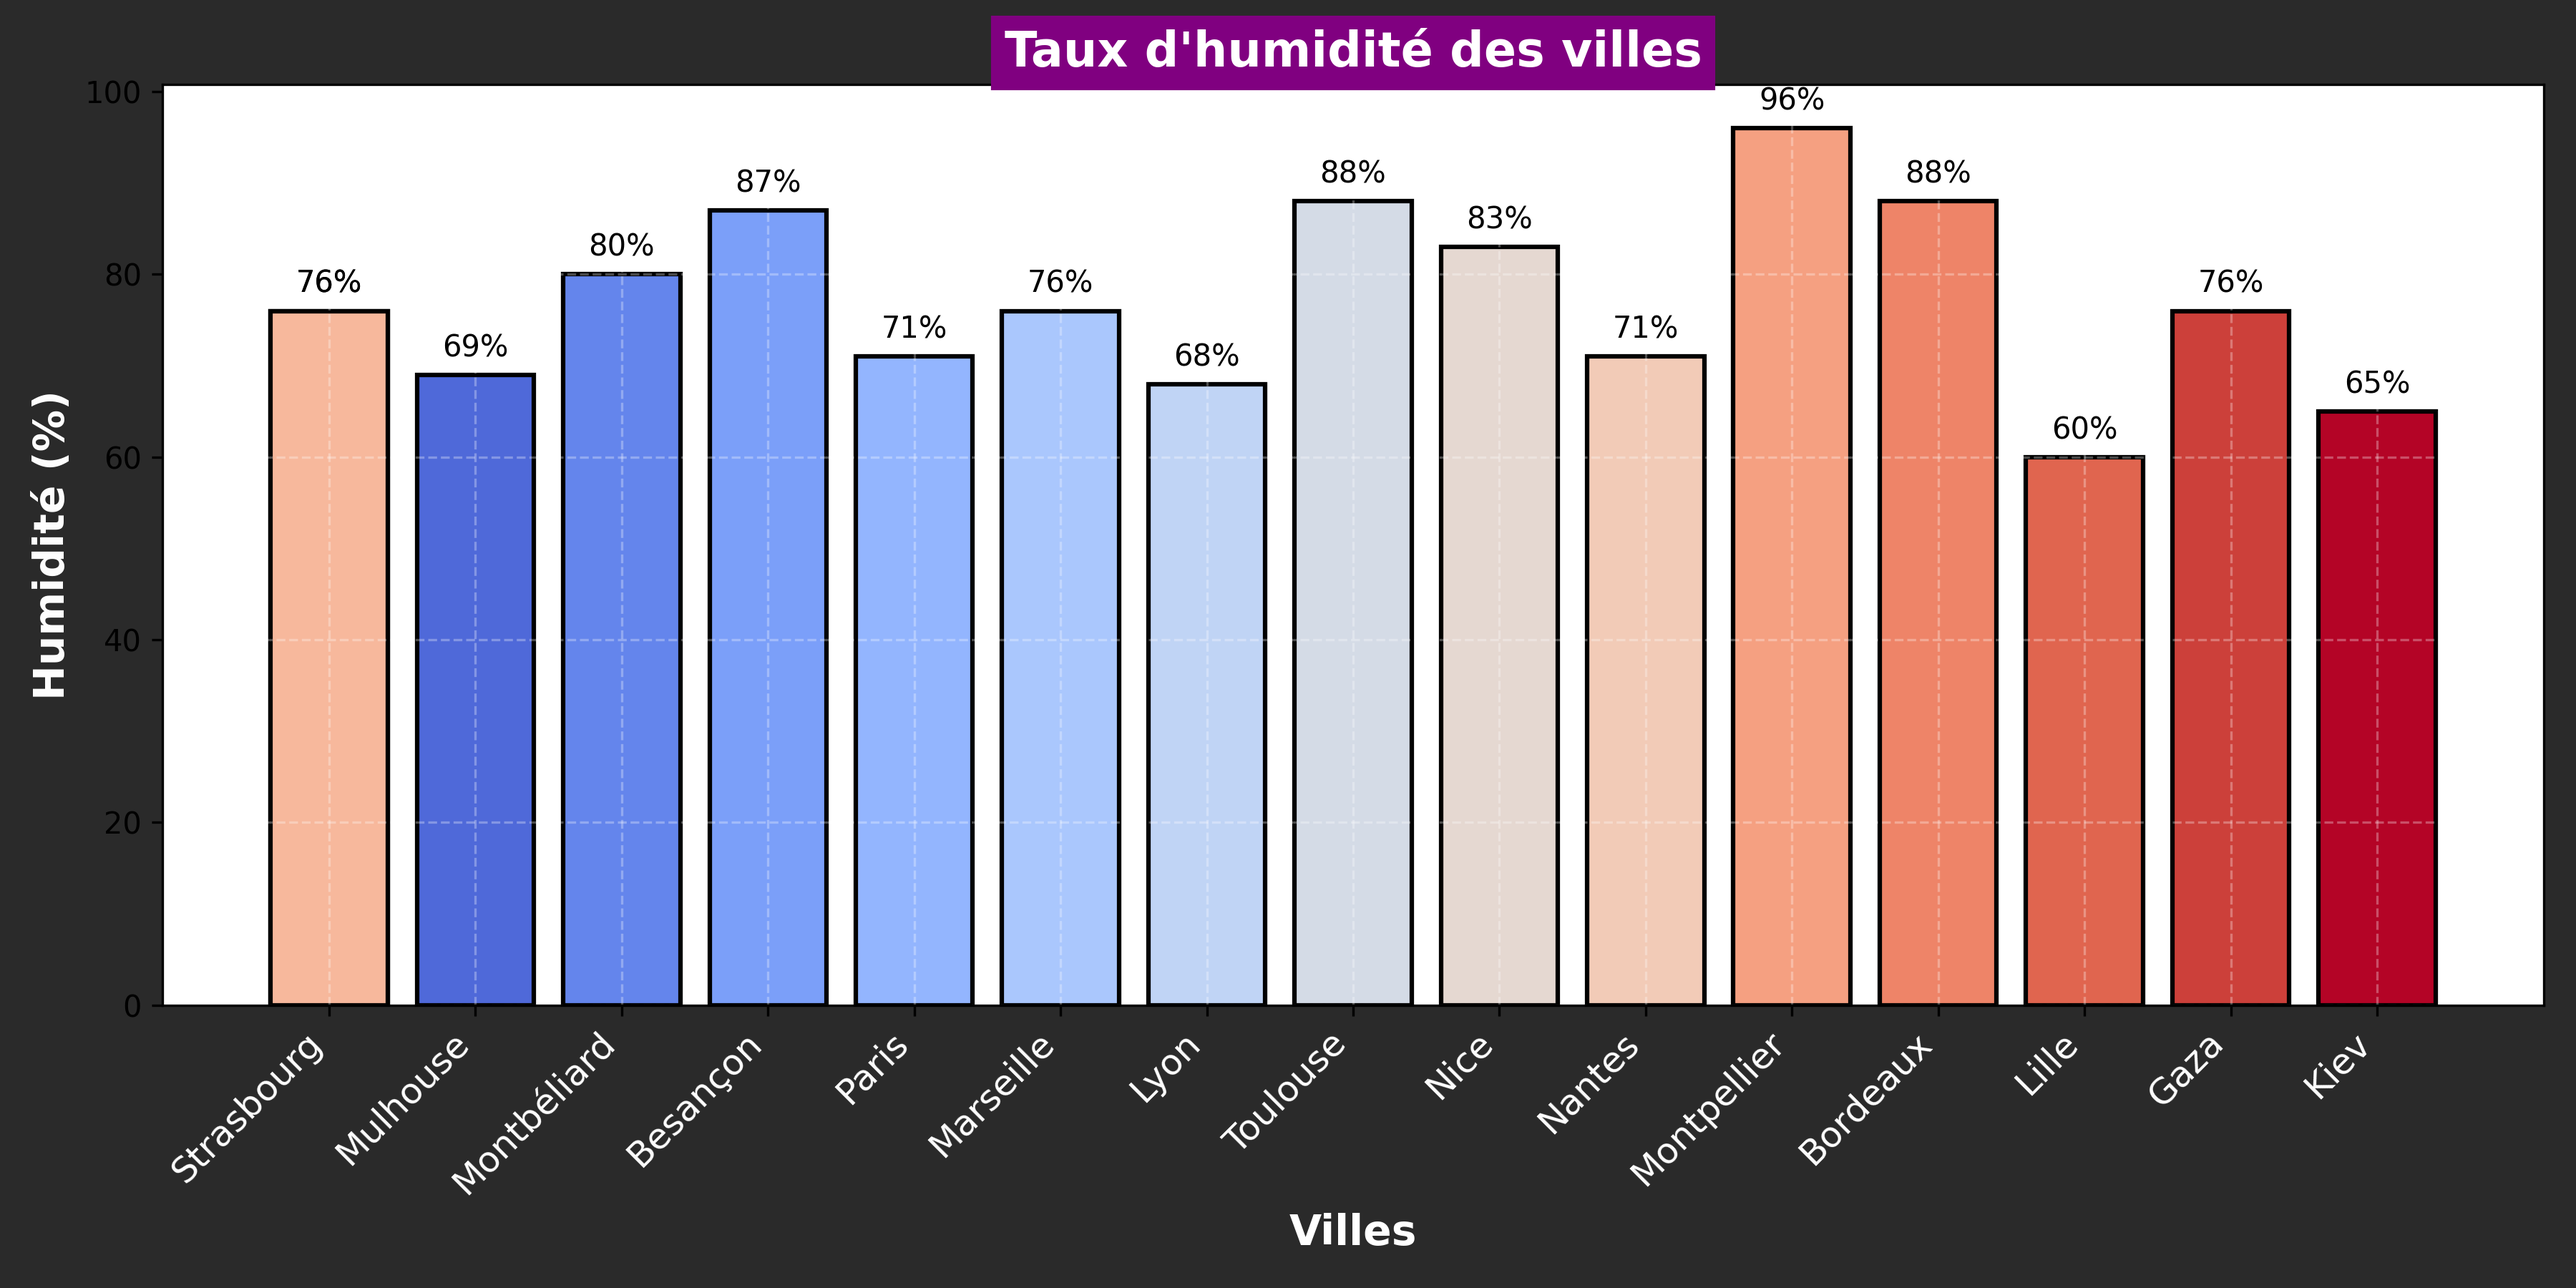
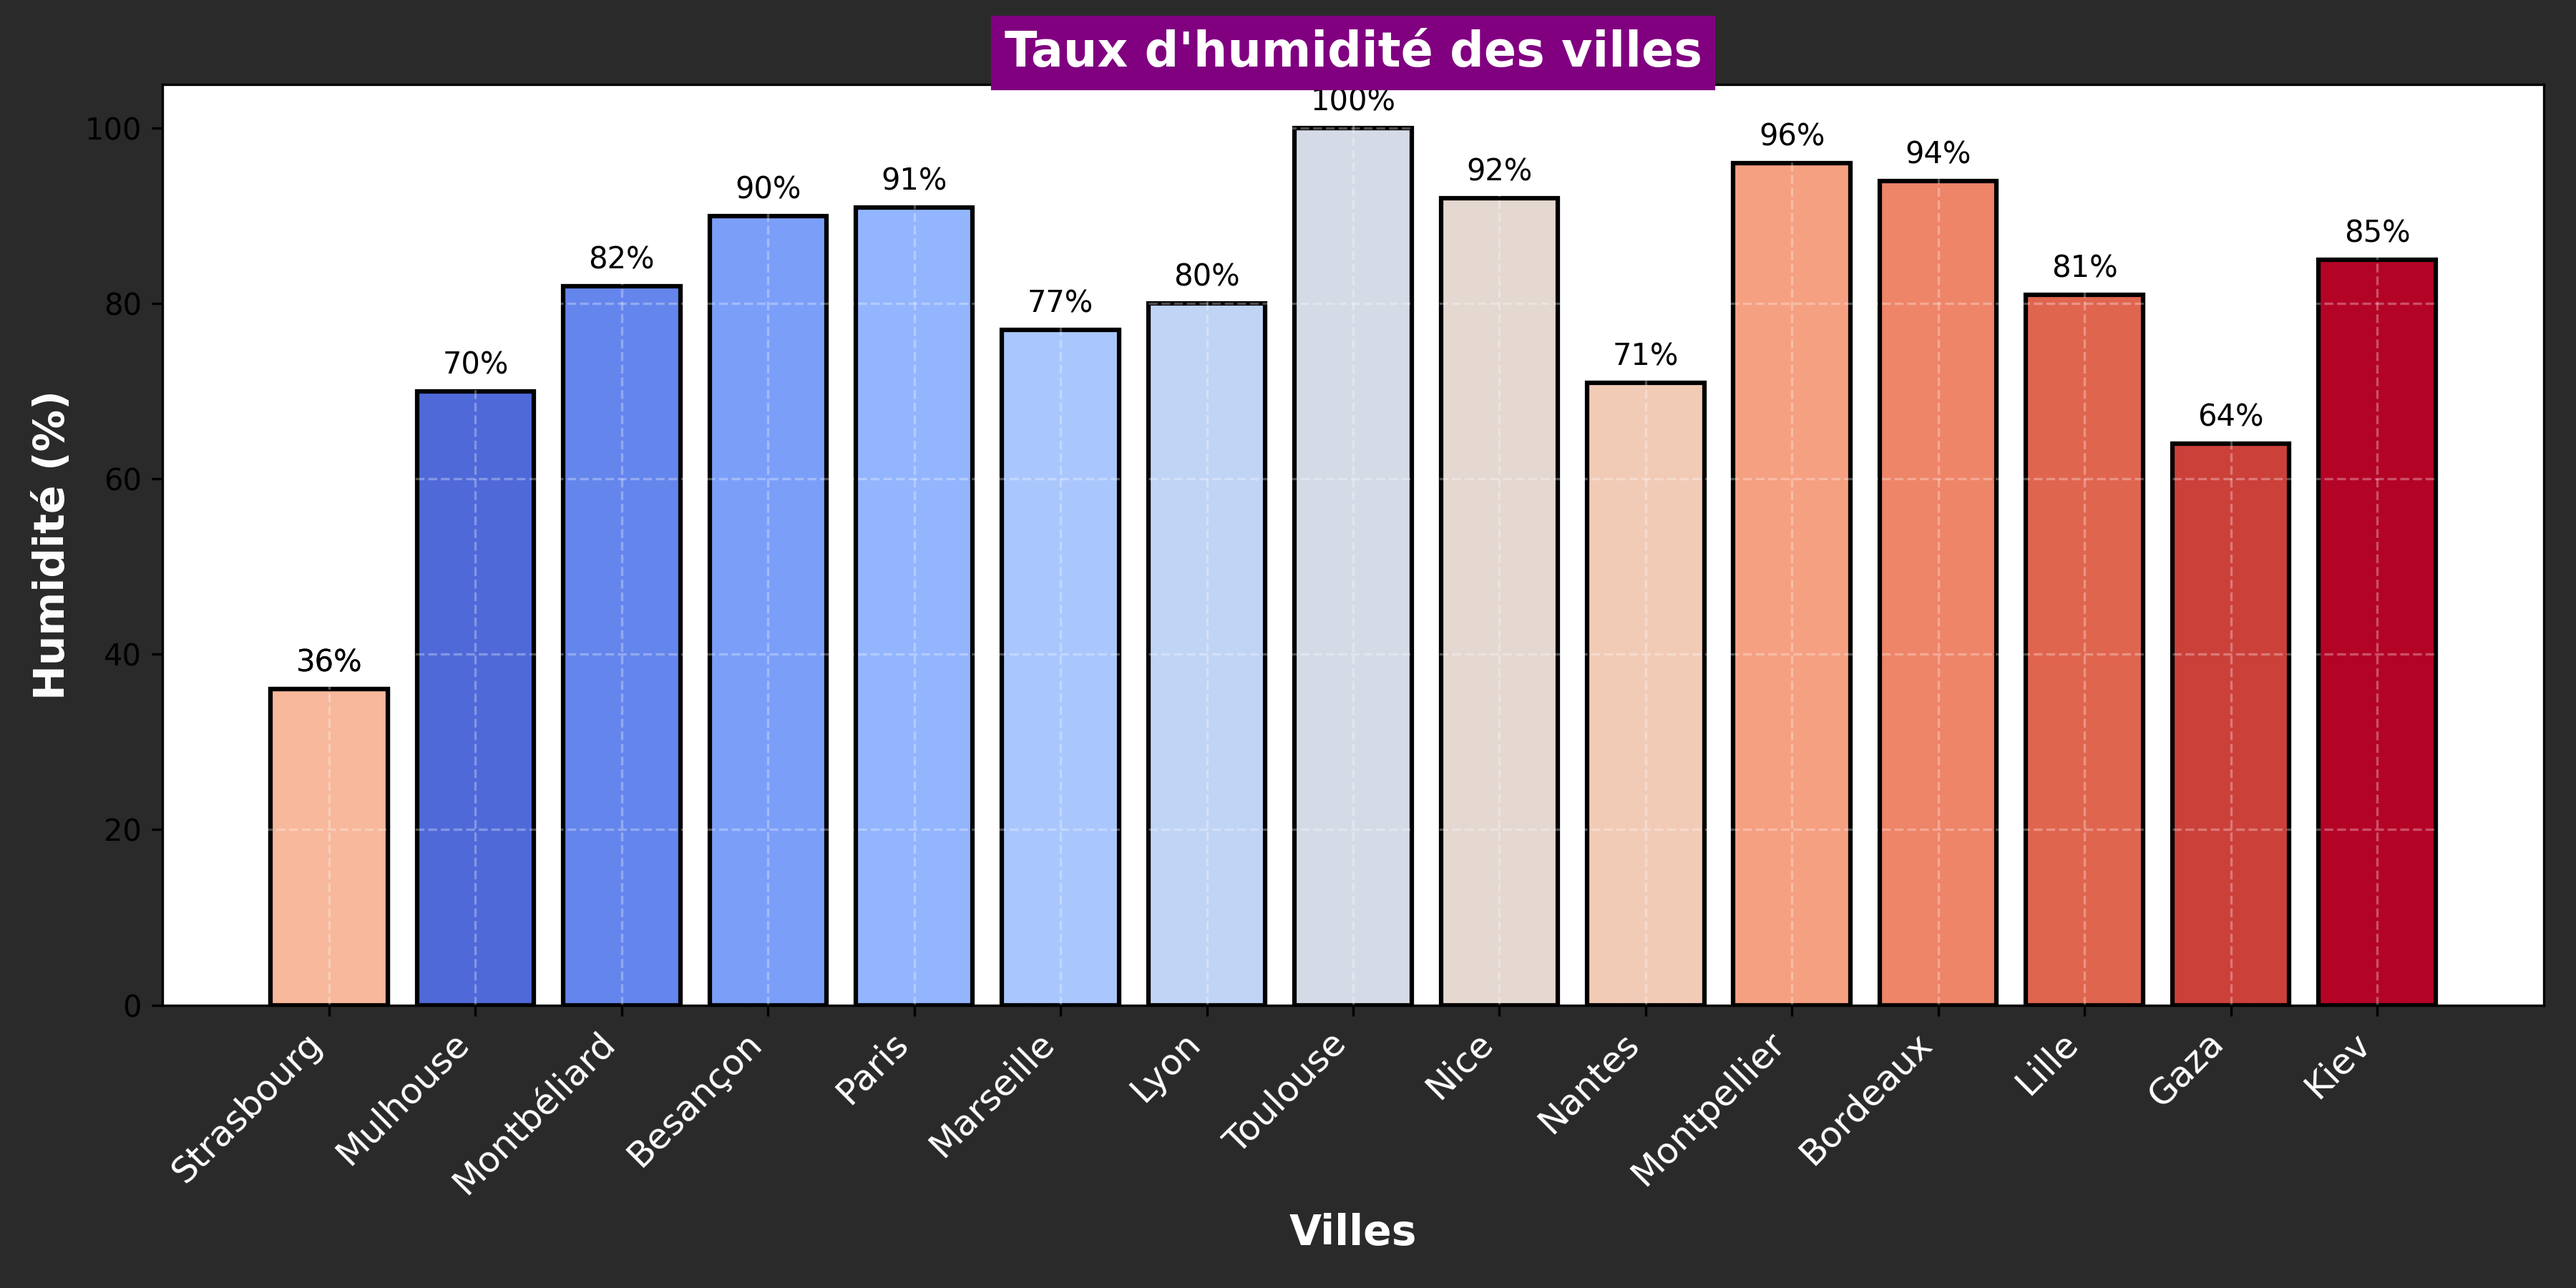
Mise à jour de la météo et ajout du graphique d'humidité

diff --git a/README.md b/README.md
@@ -24,103 +24,103 @@ Ce repo contient plusieurs workflows GitHub Actions :
 ## Météo actuelle :
 ## Météo des grandes villes + Gaza et Kiev 🌍
 
-🕒 Mise à jour : 12/04/2025 08:14:40
+🕒 Mise à jour : 13/04/2025 08:15:35
 
-### 🌍 Strasbourg ☀
-**Conditions :** ciel dégagé
-**Température :** 7.02°C
-**Humidité :** 76%
-**Vent :** 2.06 m/s
-
-### 🌍 Mulhouse 🌥
+### 🌍 Strasbourg 🌥
 **Conditions :** nuageux
-**Température :** 6.52°C
-**Humidité :** 69%
-**Vent :** 0.85 m/s
+**Température :** 14.97°C
+**Humidité :** 36%
+**Vent :** 3.6 m/s
+
+### 🌍 Mulhouse 🌧
+**Conditions :** légère pluie
+**Température :** 13.41°C
+**Humidité :** 70%
+**Vent :** 3.09 m/s
 
 ### 🌍 Montbéliard 🌥
-**Conditions :** nuageux
-**Température :** 11.66°C
-**Humidité :** 80%
-**Vent :** 2.72 m/s
+**Conditions :** couvert
+**Température :** 13.88°C
+**Humidité :** 82%
+**Vent :** 0.96 m/s
 
-### 🌍 Besançon ☀
-**Conditions :** ciel dégagé
-**Température :** 8.83°C
-**Humidité :** 87%
-**Vent :** 0.85 m/s
+### 🌍 Besançon 🌥
+**Conditions :** couvert
+**Température :** 9.63°C
+**Humidité :** 90%
+**Vent :** 2.54 m/s
 
-### 🌍 Paris ☀
-**Conditions :** ciel dégagé
-**Température :** 9.95°C
-**Humidité :** 71%
-**Vent :** 2.06 m/s
+### 🌍 Paris 🌥
+**Conditions :** couvert
+**Température :** 13.18°C
+**Humidité :** 91%
+**Vent :** 5.14 m/s
 
 ### 🌍 Marseille 🌥
 **Conditions :** couvert
-**Température :** 9.73°C
-**Humidité :** 76%
-**Vent :** 2.43 m/s
+**Température :** 13.27°C
+**Humidité :** 77%
+**Vent :** 1.79 m/s
 
 ### 🌍 Lyon 🌥
-**Conditions :** partiellement nuageux
-**Température :** 7.38°C
-**Humidité :** 68%
-**Vent :** 2.49 m/s
-
-### 🌍 Toulouse ☀
-**Conditions :** ciel dégagé
-**Température :** 12.99°C
-**Humidité :** 88%
-**Vent :** 5.66 m/s
-
-### 🌍 Nice 🌥
-**Conditions :** nuageux
-**Température :** 6.94°C
-**Humidité :** 83%
-**Vent :** 1.76 m/s
-
-### 🌍 Nantes ☀
-**Conditions :** ciel dégagé
-**Température :** 11.96°C
-**Humidité :** 71%
-**Vent :** 1.03 m/s
-
-### 🌍 Strasbourg ☀
-**Conditions :** ciel dégagé
-**Température :** 7.02°C
-**Humidité :** 76%
-**Vent :** 2.06 m/s
-
-### 🌍 Montpellier 🌥
 **Conditions :** couvert
-**Température :** 12.5°C
-**Humidité :** 96%
-**Vent :** 3.6 m/s
+**Température :** 10.18°C
+**Humidité :** 80%
+**Vent :** 0.61 m/s
 
-### 🌍 Bordeaux 🌧
-**Conditions :** légère pluie
-**Température :** 14.15°C
-**Humidité :** 88%
+### 🌍 Toulouse 🌧
+**Conditions :** pluie modérée
+**Température :** 12.99°C
+**Humidité :** 100%
 **Vent :** 4.63 m/s
 
-### 🌍 Lille ☀
-**Conditions :** ciel dégagé
-**Température :** 9.05°C
-**Humidité :** 60%
-**Vent :** 3.09 m/s
+### 🌍 Nice 🌥
+**Conditions :** couvert
+**Température :** 6.94°C
+**Humidité :** 92%
+**Vent :** 1.41 m/s
 
-### 🌍 Gaza 🌧
-**Conditions :** légère pluie
-**Température :** 16.1°C
-**Humidité :** 76%
-**Vent :** 5.49 m/s
+### 🌍 Nantes 🌥
+**Conditions :** couvert
+**Température :** 11.96°C
+**Humidité :** 71%
+**Vent :** 3.6 m/s
+
+### 🌍 Strasbourg 🌥
+**Conditions :** nuageux
+**Température :** 14.97°C
+**Humidité :** 36%
+**Vent :** 3.6 m/s
+
+### 🌍 Montpellier 🌥
+**Conditions :** bruine légère
+**Température :** 11.94°C
+**Humidité :** 96%
+**Vent :** 2.57 m/s
+
+### 🌍 Bordeaux 🌥
+**Conditions :** couvert
+**Température :** 12.15°C
+**Humidité :** 94%
+**Vent :** 1.54 m/s
+
+### 🌍 Lille 🌥
+**Conditions :** nuageux
+**Température :** 12.25°C
+**Humidité :** 81%
+**Vent :** 5.14 m/s
+
+### 🌍 Gaza 🌥
+**Conditions :** nuageux
+**Température :** 15.71°C
+**Humidité :** 64%
+**Vent :** 2.03 m/s
 
 ### 🌍 Kiev 🌥
-**Conditions :** partiellement nuageux
-**Température :** 3.27°C
-**Humidité :** 65%
-**Vent :** 1.37 m/s
+**Conditions :** couvert
+**Température :** 9.29°C
+**Humidité :** 85%
+**Vent :** 0.45 m/s
 
 <p align='center'><img src='https://raw.githubusercontent.com/khoa083/khoa/main/Khoa_ne/img/Rainbow.gif' width='100%' style='border-radius: 5px; border: 3px solid #39FF14; box-shadow: 0 0 10px #39FF14, 0 0 20px #39FF14;' /></p>
 
